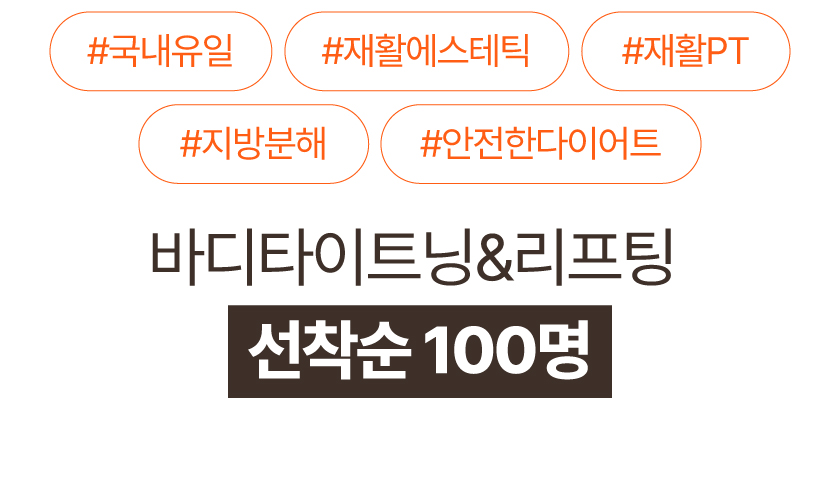
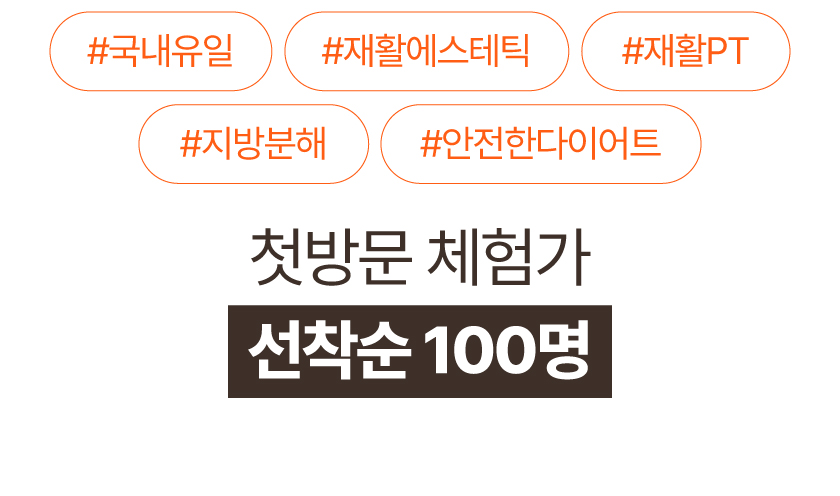
.

Changed region(s): [[0.1548, 0.4536, 0.8048, 0.5746]]

diff --git a/template/genobody/2512/2512_geno_99_evt.html b/template/genobody/2512/2512_geno_99_evt.html
@@ -82,7 +82,7 @@
                             <img class="com_img sa sa-up" src="https://winawork.github.io/images/geno/2512/2512_geno_99_n2_07.jpg"> 
 
                             <!-- 비포 에프터 -->
-                            <img class="com_img sa sa-up" src="https://winawork.github.io/images/geno/2512/2512_geno_99_10.jpg"> 
+                            <img class="com_img sa sa-up" src="https://winawork.github.io/images/geno/2512/2512_geno_99_n2_10.jpg"> 
 
                             <!-- 특별한 이유 -->
                             <img class="com_img sa sa-up" src="https://winawork.github.io/images/geno/2512/2512_geno_99_11.jpg"> 
